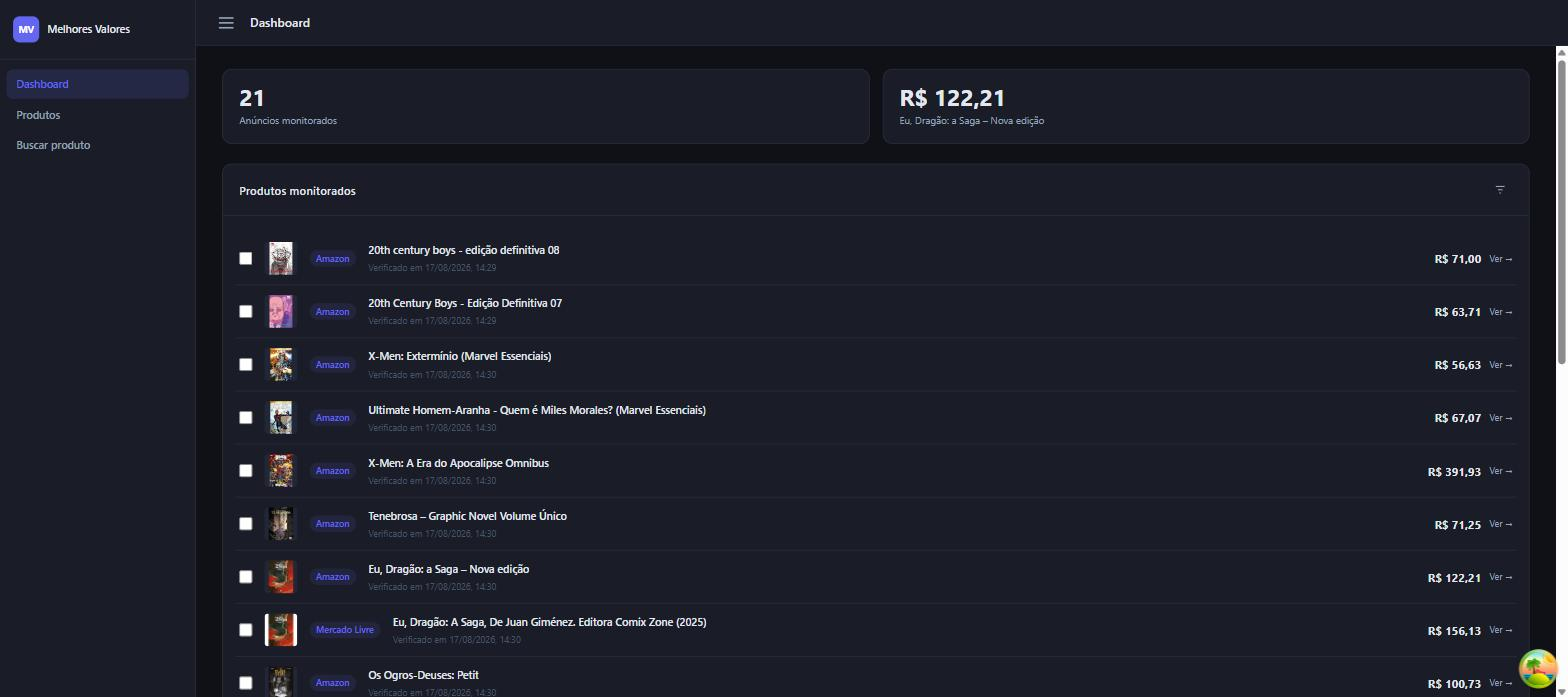
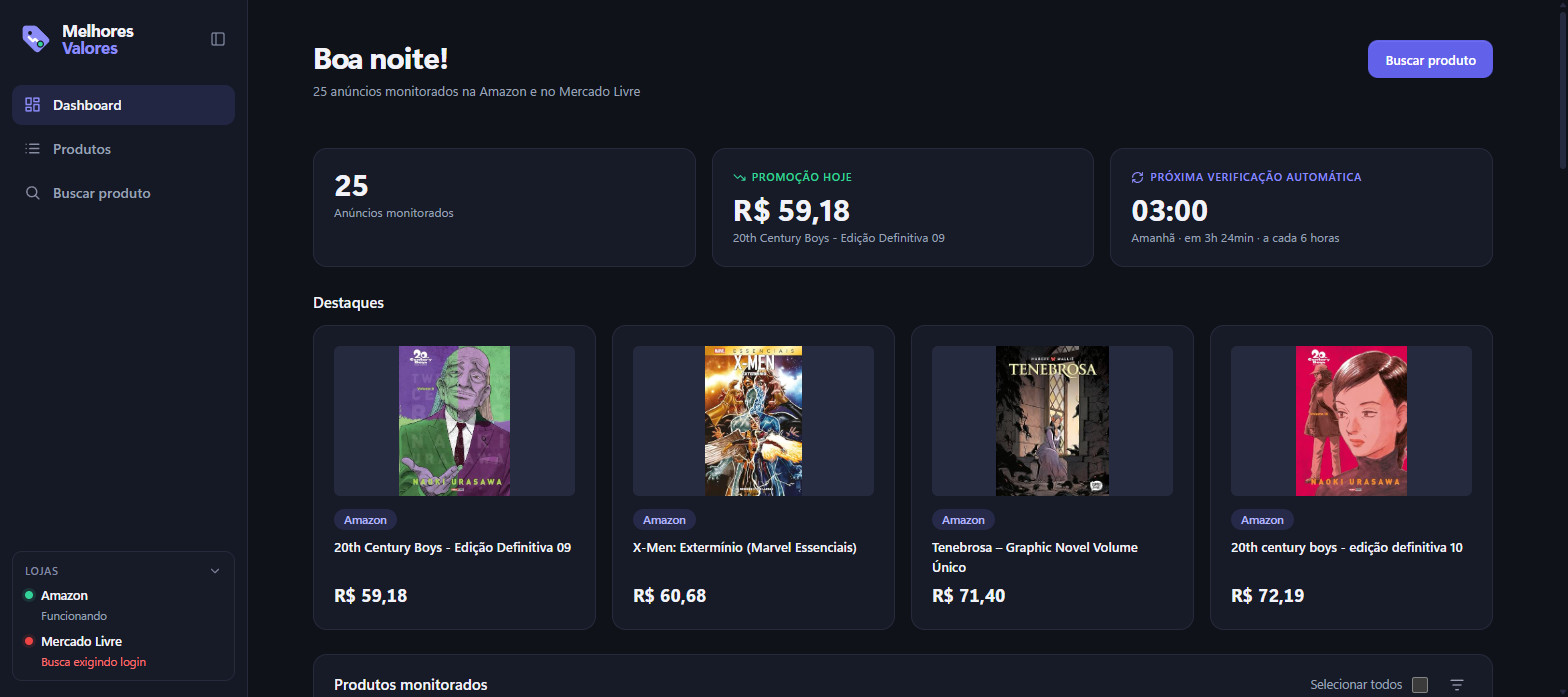
docs: novas imagens e GIF do README com a nova aparência
Prints de Dashboard, Produtos e Busca refeitos na nova interface e GIF do fluxo buscar → monitorar → Dashboard, incluindo seleção com barra flutuante e histórico de preço. Legendas atualizadas.

diff --git a/README.md b/README.md
@@ -12,19 +12,19 @@ O **Melhores Valores** é composto por um backend em Python (FastAPI + Celery) r
 
 ## 📸 Screenshots
 
-**Dashboard** — visão geral dos anúncios monitorados, com preço mais baixo do dia em destaque.
+**Dashboard** — visão geral dos anúncios monitorados: promoção do dia, horário da próxima verificação automática, destaques com os menores preços e saúde de cada loja na barra lateral.
 
 ![Dashboard](docs/screenshots/dashboard.jpg)
 
-**Produtos monitorados** — lista completa com URL, preço atual e atualização manual de preço.
+**Produtos monitorados** — lista completa com URL, preço atual, última verificação de cada item e atualização manual de preço.
 
 ![Produtos](docs/screenshots/products.jpg)
 
-**Busca por nome** — busca paralela em Amazon e Mercado Livre, com aviso de bloqueio por loja quando aplicável.
+**Busca por nome** — busca paralela em Amazon e Mercado Livre, com status de cada loja e aviso explicado quando uma delas bloqueia a busca.
 
 ![Busca de produtos](docs/screenshots/search-results.jpg)
 
-**Fluxo de adição** — monitorar um resultado de busca e vê-lo aparecer no Dashboard.
+**Fluxo de adição** — buscar, monitorar um resultado e vê-lo aparecer no Dashboard; depois, selecionar itens pela barra flutuante e abrir o histórico de preço.
 
 ![Fluxo de adicionar produto](docs/screenshots/add-product-flow.gif)
 
